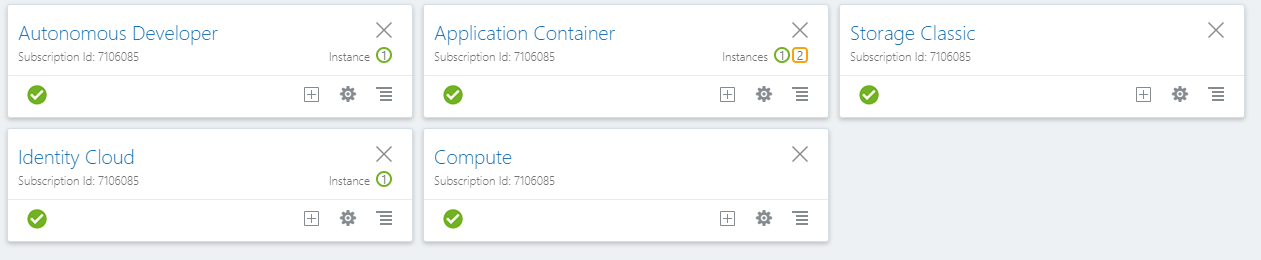
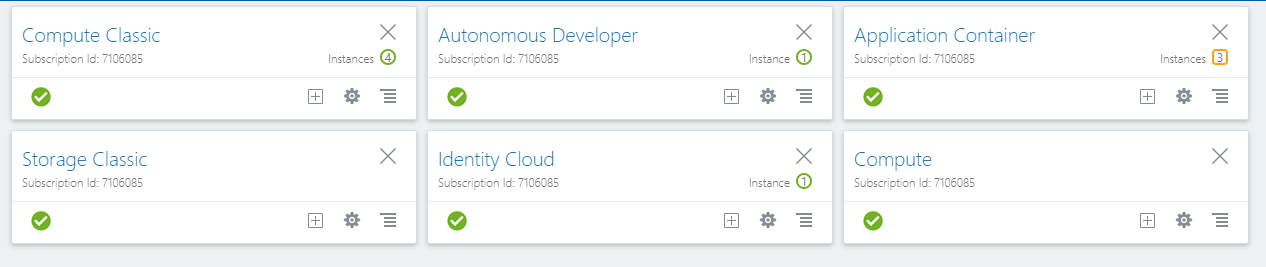
updates

diff --git a/workshops/devcs-mysql/Lab100.md b/workshops/devcs-mysql/Lab100.md
@@ -71,6 +71,7 @@ You will create some initial required infrastructure components within your Trai
 
 - Click **Show** on the following services if they are not already seen on your screen:
 
+    - Compute Classic
     - Storage Classic
     - Identity Cloud
     - Compute
@@ -226,13 +227,27 @@ Description: Deployment of Infrastructure and Applications
 
   ![](images/100/25-4.PNG)
 
+- Click on the **MYSQLAlphaOffice** link and then click on the **hamburger menu** on the upper right hand side of the page and select **Access Service Instance**.
 
+  ![](images/100/26.PNG)
 
+- You'll see on the page a reminder that links to Compute and Storage needs to take place before any builds and deployments can. Thi was montioned at the beginning of this step.
 
+  ![](images/100/27.PNG)
 
+- Right-click on the **Compute** link and select **Open link in new tab**.
 
+  ![](images/100/28.PNG)
 
+- This takes you into the Organization Configuration (Virtual Machines) page where you'll click the **Configure Compute Account** button.
 
+  ![](images/100/29.PNG)
+
+- You'll be asked to supply your **Username**, **Password**, **Service ID** and **REST Endpoint** in the dialog. Enter your login credentials for your Trial Account.
+
+- To obtain the Service ID and REST Endpoint you need to go back to the services dashboard, click on the **Compute Classic hamburger menu** and right-click **View Details** to **Open link in new tab**.
+
+  ![](images/100/30.PNG)
 
 
 
